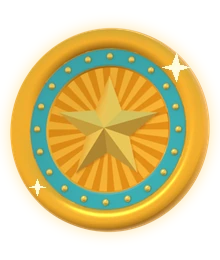
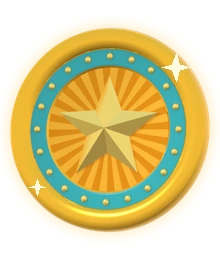
Coins: brighter gold, a fine reeded edge that keeps the outline smooth
The same coins.py, re-rendered with crisper highlights: a smaller, stronger key
light, a darker floor for the gold to mirror, and polished rims and spiral.
120 shallow reeds replace the 72 deep ones, which had made the coin's outline
look like a bottle cap. The Star Coin gets the same light.

Claude-Session: https://claude.ai/code/session_01SaCmMRmT6ous3ZUywnLqEj

diff --git a/src/game/data/spriteMeta.generated.ts b/src/game/data/spriteMeta.generated.ts
@@ -258,12 +258,12 @@ export const SPRITE_META: Record<string, SheetMeta> = {"kip":{"pad":80,"anchor":
     {"w":389,"h":389,"solid":[96,89,210,195]},
     {"w":389,"h":389,"solid":[102,95,198,171]},
     {"w":389,"h":389,"solid":[103,91,187,186]}]},"items":{"pad":80,"anchor":"center","frames":[
-    {"w":389,"h":365,"solid":[107,94,175,177]},
+    {"w":389,"h":365,"solid":[108,94,173,177]},
     {"w":389,"h":365,"solid":[118,94,153,177]},
-    {"w":389,"h":365,"solid":[146,94,97,177]},
-    {"w":389,"h":365,"solid":[175,94,39,177]},
-    {"w":389,"h":365,"solid":[134,94,121,177]},
-    {"w":389,"h":365,"solid":[107,94,175,177]},
+    {"w":389,"h":365,"solid":[146,95,97,176]},
+    {"w":389,"h":365,"solid":[175,95,39,175]},
+    {"w":389,"h":365,"solid":[135,94,119,177]},
+    {"w":389,"h":365,"solid":[108,94,173,177]},
     {"w":389,"h":365,"solid":[122,100,152,174]},
     {"w":389,"h":365,"solid":[135,100,149,175]},
     {"w":389,"h":365,"solid":[143,101,141,172]},
